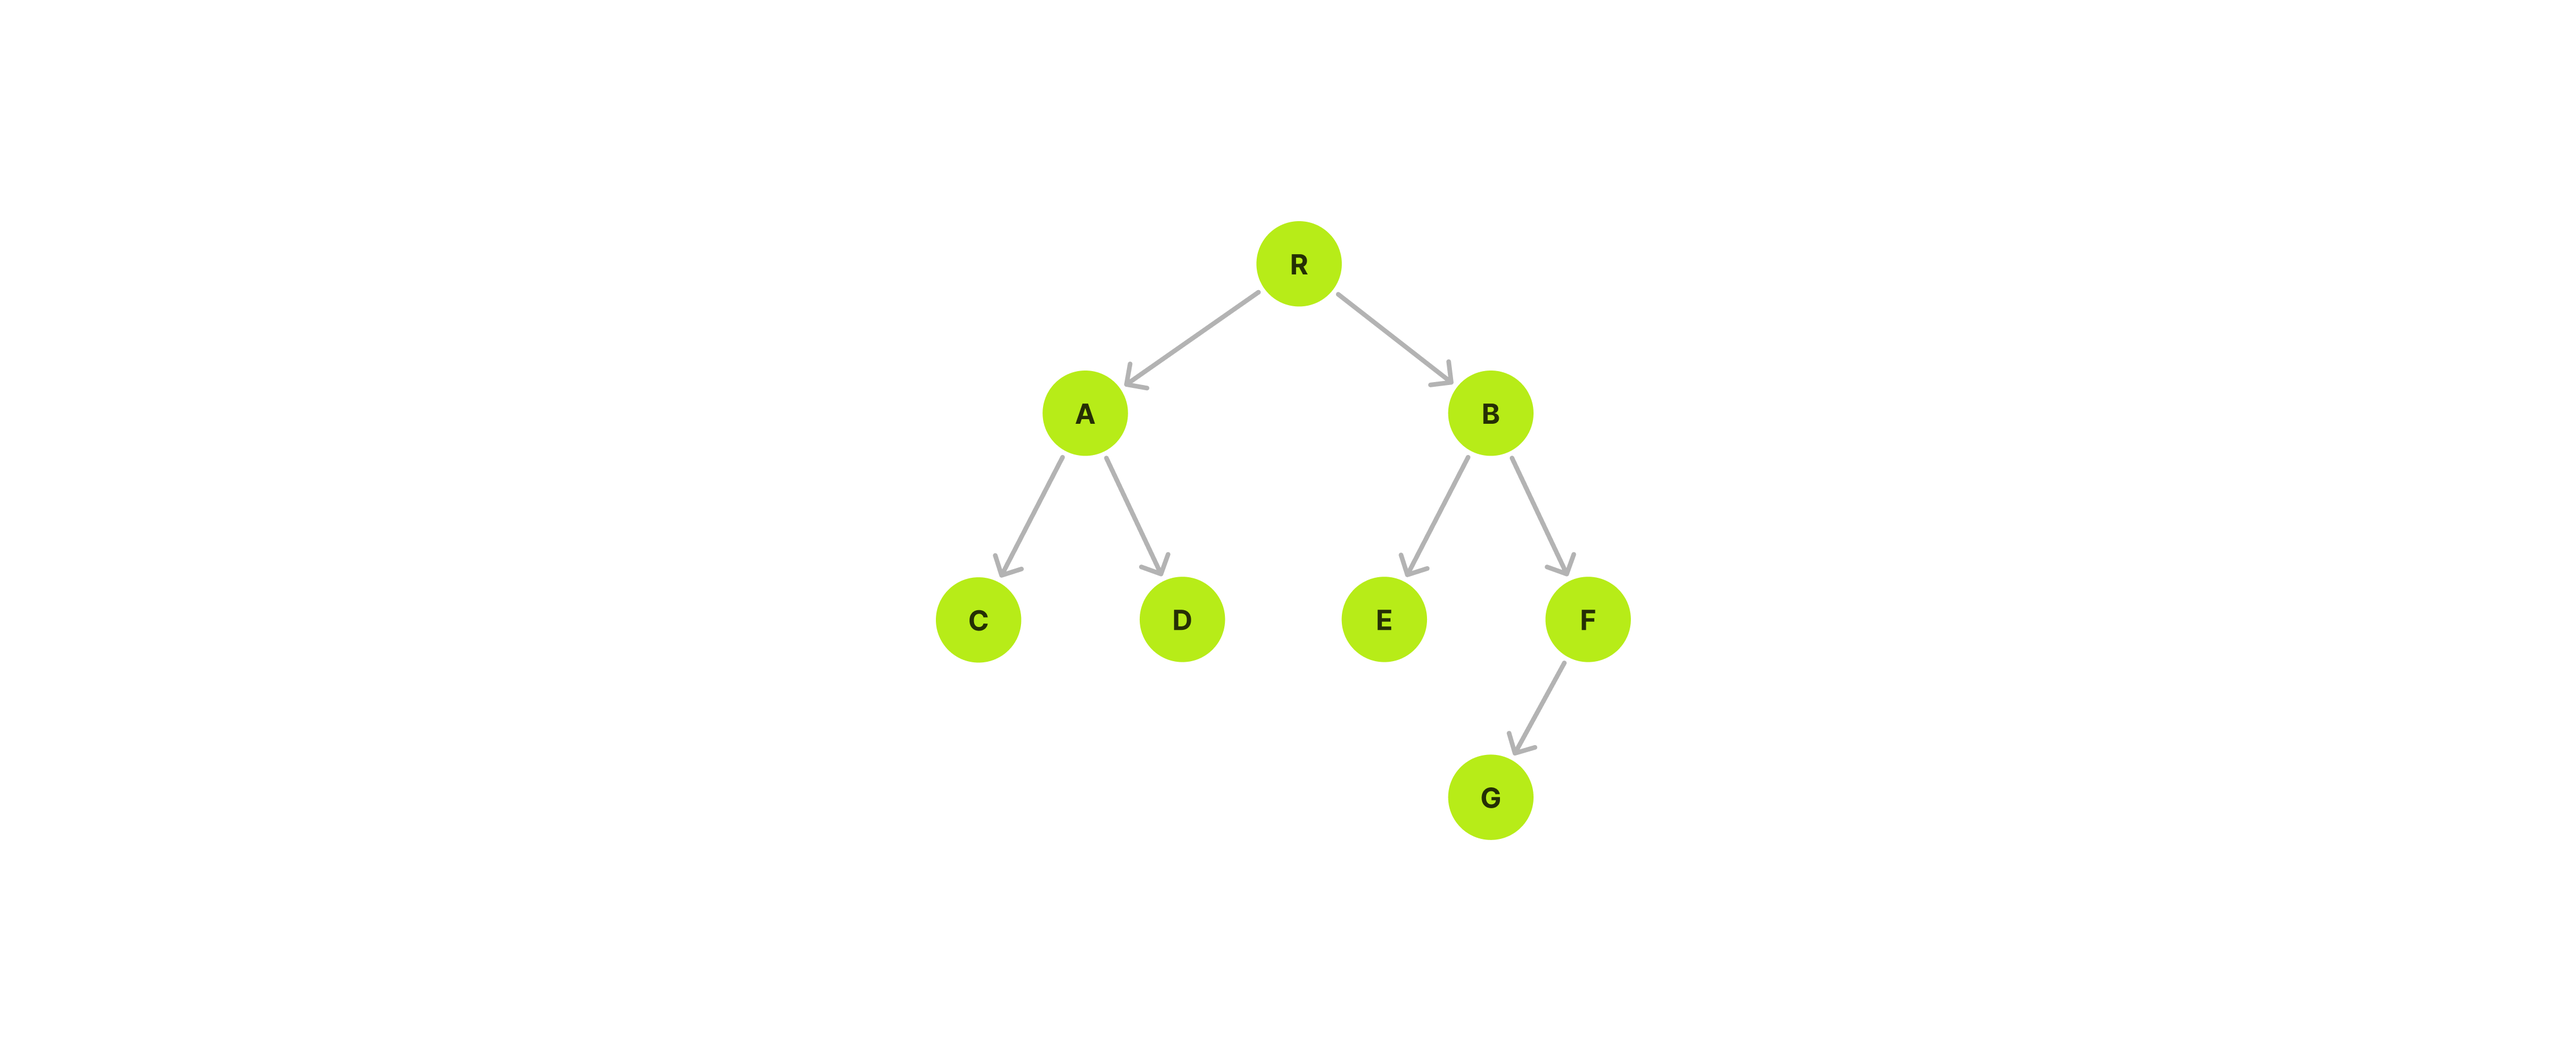
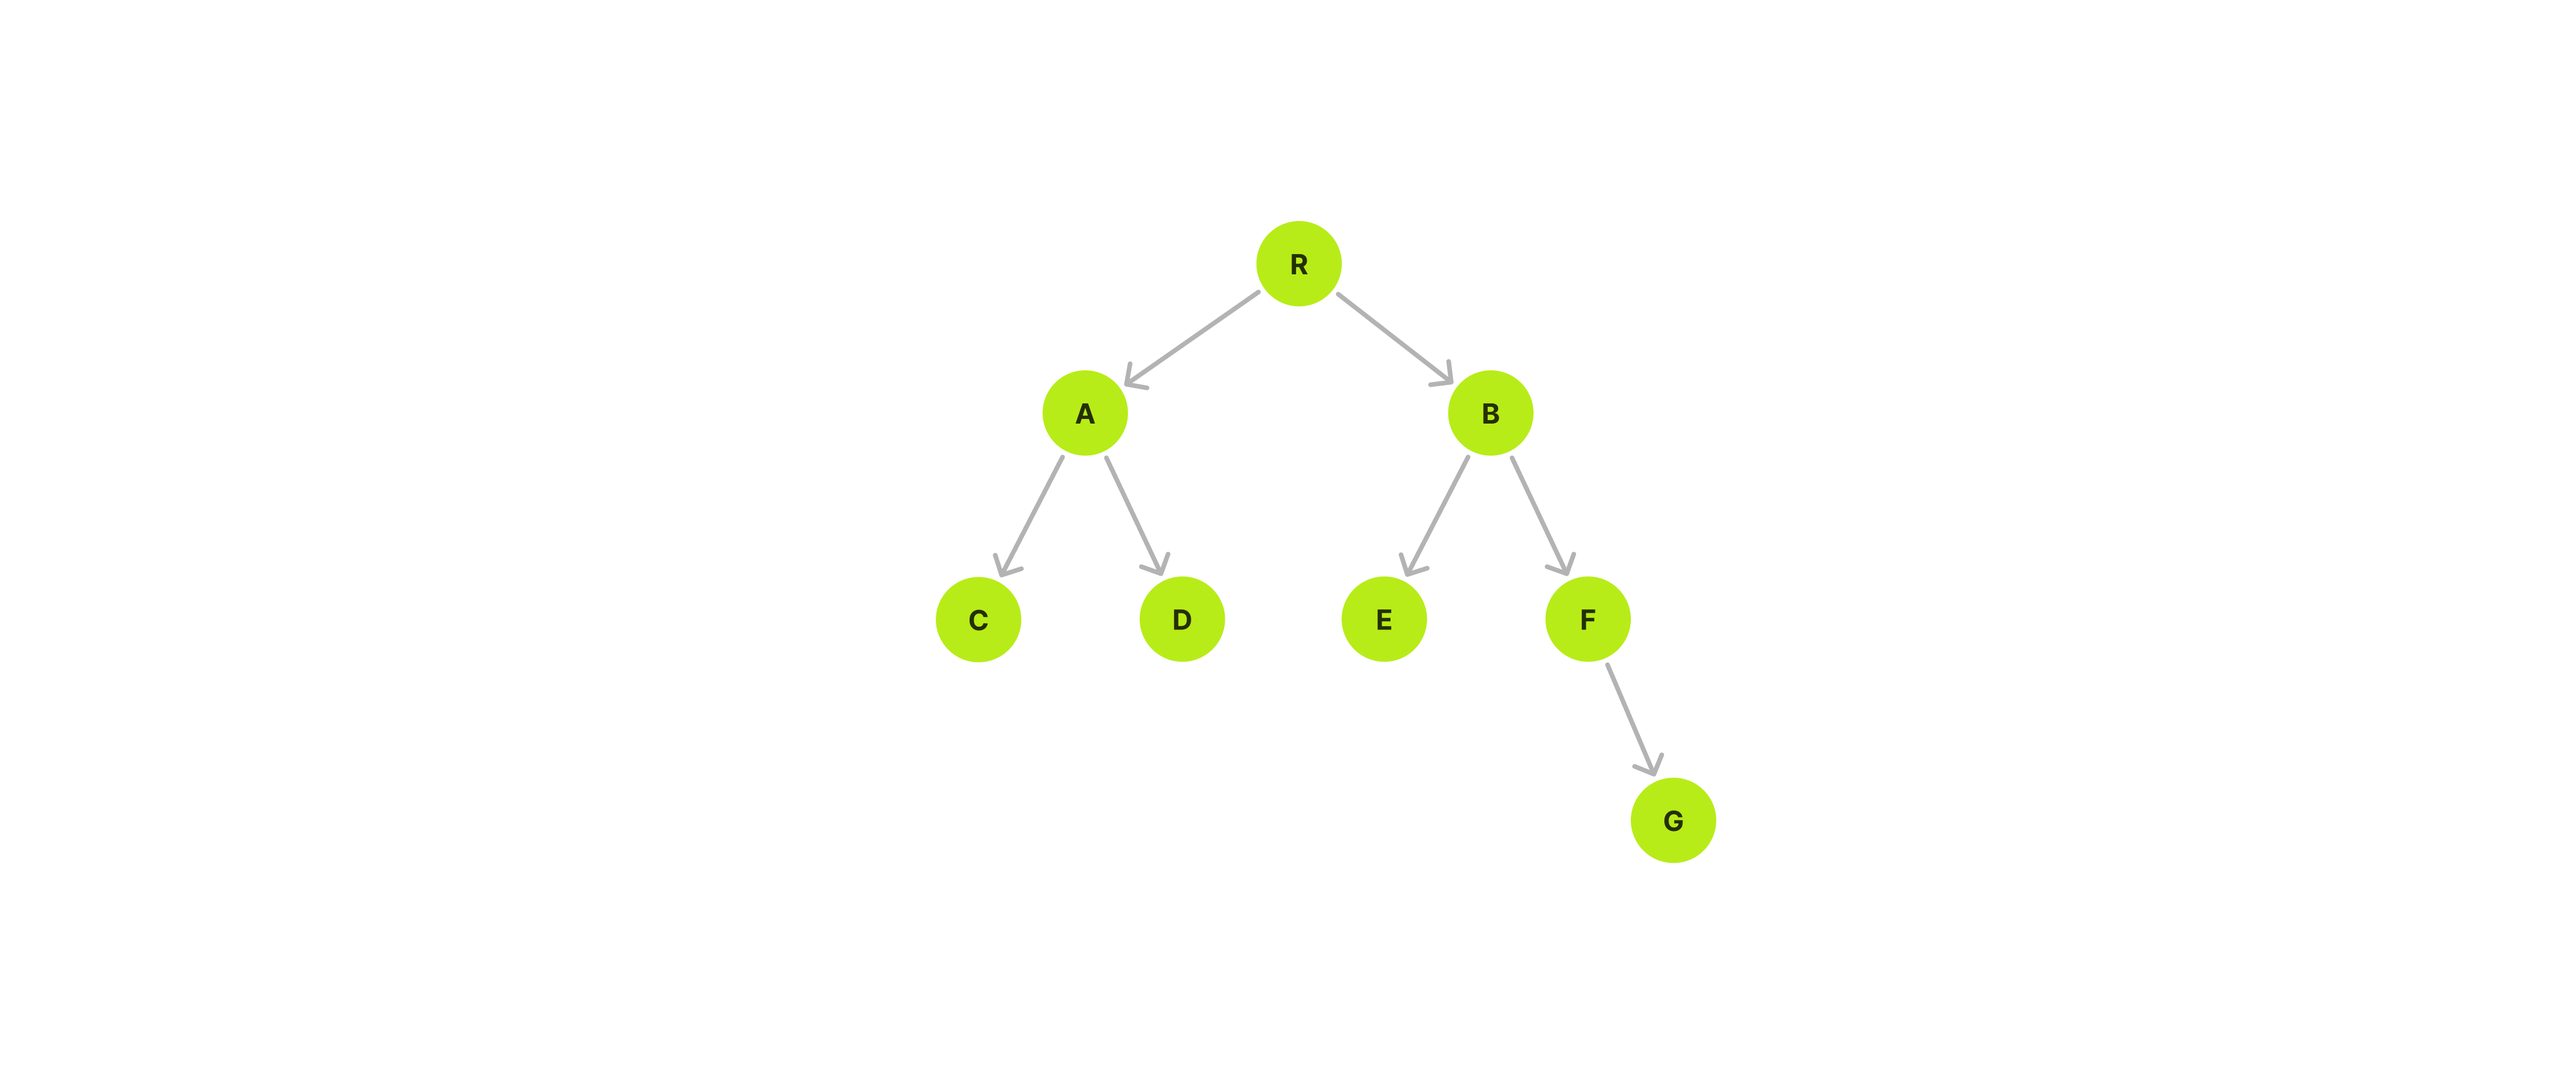
updated images

diff --git a/data-structures/non-linear/binary-tree.md b/data-structures/non-linear/binary-tree.md
@@ -33,7 +33,7 @@ Pre-order Traversal is a type of Depth First Search. It's done by visiting the r
 
 > Usage: Creating a copy of the tree, prefix notation of an expression tree, etc.
 
-![Binary tree pre-order traversal](./img/binary-tree-balanced.png)
+![Binary tree pre-order traversal](./img/binary-tree-complete.png)
 
 ```php
 class Node
